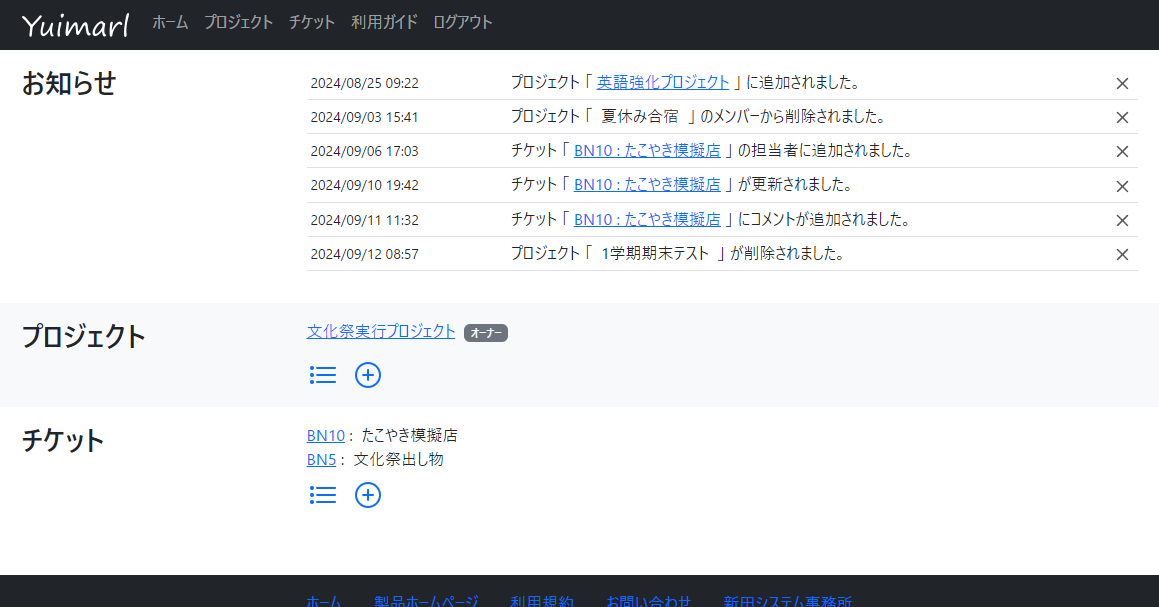
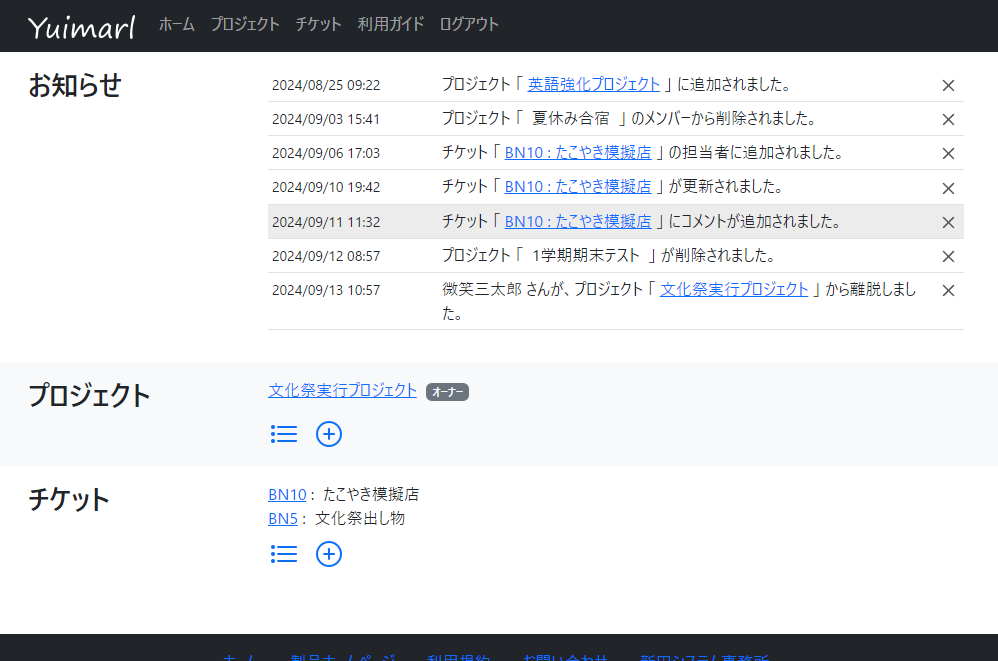
update

diff --git a/howtouse.html b/howtouse.html
@@ -43,6 +43,7 @@
                         <li><a href="#prjlst">プロジェクト一覧</a></li>
                         <li><a href="#prjupd">プロジェクトを更新する</a></li>
                         <li><a href="#prjdel">プロジェクトを削除する</a></li>
+                        <li><a href="#withdraw">プロジェクトから離脱する</a></li>
                       </ol>
                     </li>
                     <li><a href="#tkt">チケット</a>
@@ -190,6 +191,11 @@
                   <section class="pb-2">
                     <h4 id="prjdel">プロジェクトを削除する</h4>
                     <p>プロジェクトのオーナーは、プロジェクトを削除することができます。<br>プロジェクトを削除するには、プロジェクト情報画面で「削除」を選択します。<br>削除確認メッセージが表示されるので、「削除」を選択します。</p><a href="images/screen68.png"><img class="border border-info border-1 img-fluid" src="images/screen68.png"></a>
+                    <hr>
+                  </section>
+                  <section class="pb-2">
+                    <h4 id="withdraw">プロジェクトから離脱する</h4>
+                    <p>プロジェクトの 管理者 / メンバー / 閲覧者 は、プロジェクトから離脱することができます。<br>プロジェクトから離脱するには、プロジェクト情報画面で「プロジェクトから離脱」を選択します。<br>離脱確認メッセージが表示されるので、「離脱」を選択します。<br>離脱すると、プロジェクトのメンバーから削除されます。</p><a href="images/screen84.png"><img class="border border-info border-1 img-fluid" src="images/screen84.png"></a>
                     <hr>
                   </section>
                 </section>
@@ -356,6 +362,7 @@
                     <li>他のユーザーによって、自分が担当になっているチケットが更新された時。</li>
                     <li>他のユーザーによって、自分が担当になっているチケットにコメントが追加された時。</li>
                     <li>他のユーザーによって、自分がメンバーになっているプロジェクトが削除された時。</li>
+                    <li>自分がオーナーまたは管理者のプロジェクトから、メンバーが離脱した時。</li>
                   </ol>
                   <p>お知らせを削除するには、<img class="icon3" src="images/ionicons/close-outline.svg">&nbsp;アイコンをクリックします。</p>
                 </section>

diff --git a/deploy.html b/deploy.html
@@ -98,7 +98,7 @@
                       <p>「サービスを作成」をクリックします。<a href="images/screen29.png"><img class="border border-info border-1 img-fluid" src="images/screen29.png"></a></p>
                       <p>「課金を有効にして Cloud Run の使用を継続します」画面が表示された場合は、「[お支払い]に移動」をクリックして支払いの設定を行います。<a href="images/screen30.png"><img class="border border-info border-1 img-fluid" src="images/screen30.png"></a></p>
                       <p>「サービスを作成」で次の画像のように設定します。<br>（&nbsp;「コンテナイメージのURL」は、<a href="https://hub.docker.com/repository/docker/masahironitta/yuimarl/general" target="_blank">Docker Hub</a>&nbsp; に登録されている最新のイメージを設定します）<a href="images/screen31.png"><img class="border border-info border-1 img-fluid" src="images/screen31.png"></a>
-                        <div class="alert alert-primary" role="alert">現在の最新イメージは、<br><b>masahironitta/yuimarl:1.0.4</b><br>です。<br><a href="https://hub.docker.com/repository/docker/masahironitta/yuimarl/general" target="_blank">Yuimarl Docker Hub レジストリ</a></div>
+                        <div class="alert alert-primary" role="alert">現在の最新イメージは、<br><b>masahironitta/yuimarl:1.0.5</b><br>です。<br><a href="https://hub.docker.com/repository/docker/masahironitta/yuimarl/general" target="_blank">Yuimarl Docker Hub レジストリ</a></div>
                       </p>
                       <p>「コンテナ、ボリューム、ネットワーキング、セキュリティ」の「コンテナ」の「設定」にある「ヘルスチェックを追加します」をクリックします。<a href="images/screen48.png"><img class="border border-info border-1 img-fluid" src="images/screen48.png"></a></p>
                       <p>「ライブネスチェック」と「HTTP」を選択し、パスに「/health」と入力し、「追加」をクリックします。<a href="images/screen43.png"><img class="border border-info border-1 img-fluid" src="images/screen43.png"></a></p>
